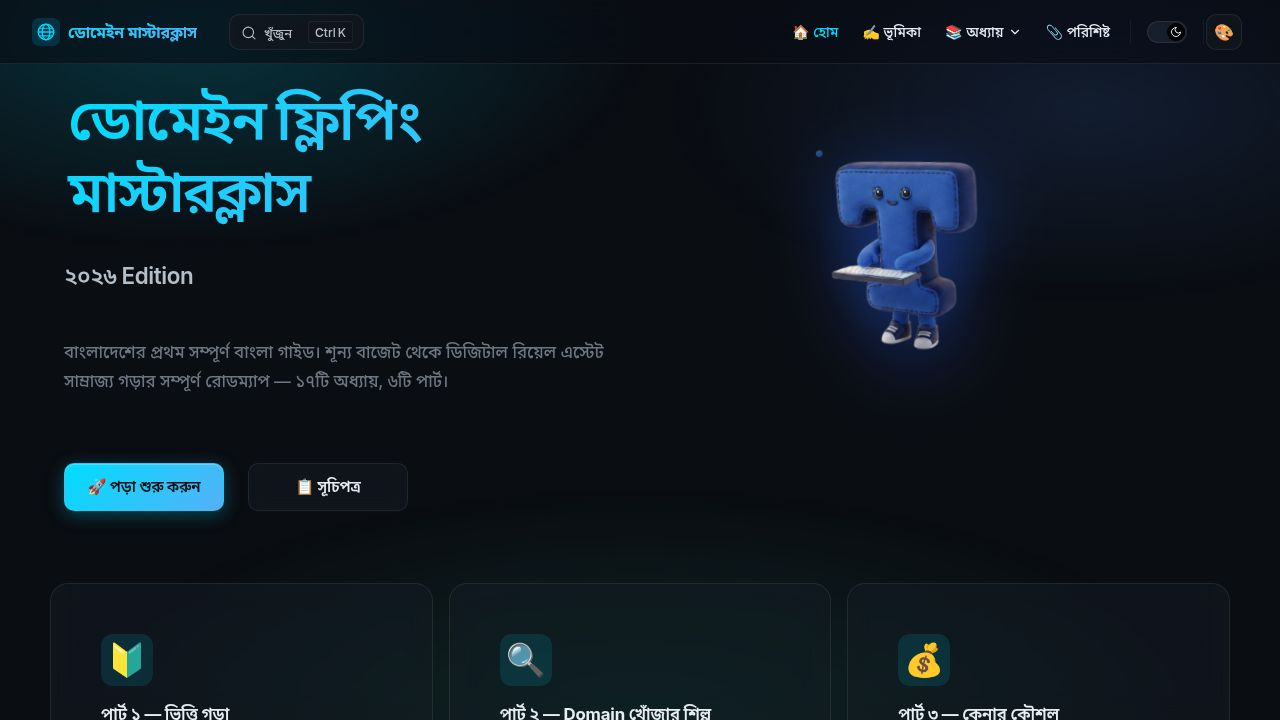
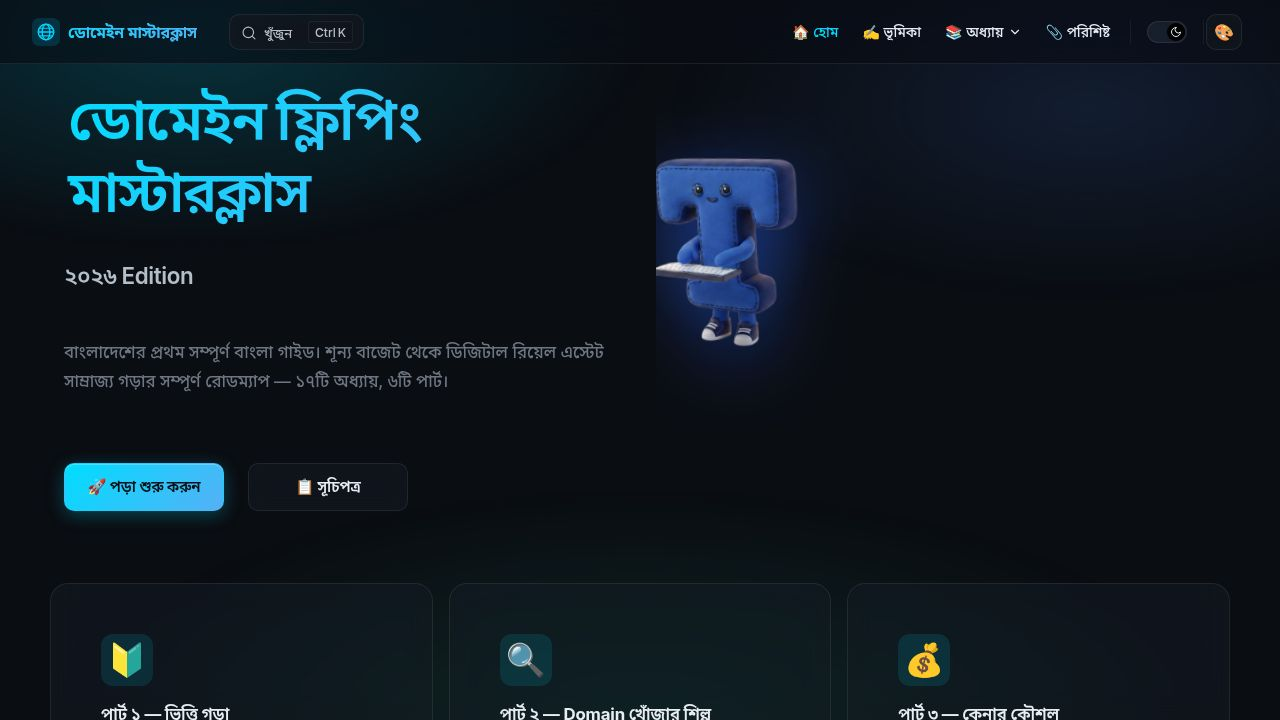
Add animated mobile hero section with floating elements and domain chips
Introduce a new Vue component for a dynamic mobile hero section, replacing the desktop mascot with animated orbs, floating symbols, and domain chips. Updates CSS to conditionally display the animation on mobile devices and modifies the main layout component to integrate the new mobile-specific hero.

Replit-Commit-Author: Agent
Replit-Commit-Session-Id: 3843b262-4242-4fa6-9959-9911749baf12
Replit-Commit-Checkpoint-Type: full_checkpoint
Replit-Commit-Event-Id: b6932607-c83e-4a5b-aa0b-7f34a9209fcc
Replit-Commit-Screenshot-Url: https://storage.googleapis.com/screenshot-production-us-central1/5a80816a-b716-49a9-b665-6e2691dbfa70/3843b262-4242-4fa6-9959-9911749baf12/QT2H8TU
Replit-Helium-Checkpoint-Created: true

Changed region(s): [[0.5, 0.1833, 0.7812, 0.5194]]

diff --git a/artifacts/docs/.vitepress/theme/MobileHeroAnimation.vue b/artifacts/docs/.vitepress/theme/MobileHeroAnimation.vue
@@ -1,0 +1,158 @@
+<template>
+  <div class="mha-wrap" aria-hidden="true">
+    <!-- Background gradient orbs -->
+    <div class="mha-orb mha-orb-1" />
+    <div class="mha-orb mha-orb-2" />
+
+    <!-- Floating ambient symbols (corners only, away from chips) -->
+    <span class="mha-float mha-f1">$</span>
+    <span class="mha-float mha-f2">💎</span>
+    <span class="mha-float mha-f3">🚀</span>
+    <span class="mha-float mha-f4">$</span>
+
+    <!-- Central stacked domain chips -->
+    <div class="mha-stack">
+      <div class="mha-chip mha-c1">
+        <span class="mha-pre">www.</span><span class="mha-name">yourname</span><span class="mha-tld">.com</span>
+      </div>
+      <div class="mha-chip mha-c2">
+        <span class="mha-pre">www.</span><span class="mha-name">startup</span><span class="mha-tld">.io</span>
+      </div>
+      <div class="mha-chip mha-c3">
+        <span class="mha-pre">www.</span><span class="mha-name">buy</span><span class="mha-tld">.shop</span>
+      </div>
+    </div>
+  </div>
+</template>
+
+<style scoped>
+.mha-wrap {
+  position: relative;
+  width: 100%;
+  height: 220px;
+  margin: 0 auto;
+  overflow: hidden;
+  border-radius: 20px;
+  isolation: isolate;
+}
+
+/* ===== gradient orbs ===== */
+.mha-orb {
+  position: absolute;
+  border-radius: 50%;
+  filter: blur(32px);
+  opacity: 0.55;
+  pointer-events: none;
+  animation: mha-drift 9s ease-in-out infinite;
+}
+.mha-orb-1 {
+  width: 180px; height: 180px;
+  background: radial-gradient(circle, var(--accent), transparent 65%);
+  top: -40px; left: -40px;
+}
+.mha-orb-2 {
+  width: 160px; height: 160px;
+  background: radial-gradient(circle, var(--accent), transparent 65%);
+  bottom: -40px; right: -40px;
+  animation-delay: 3s;
+  opacity: 0.45;
+}
+@keyframes mha-drift {
+  0%, 100% { transform: translate(0, 0) scale(1); }
+  50%      { transform: translate(10px, -8px) scale(1.08); }
+}
+
+/* ===== floating ambient symbols (in 4 corners, far from chips) ===== */
+.mha-float {
+  position: absolute;
+  font-size: 16px;
+  opacity: 0;
+  animation: mha-rise 7s ease-in-out infinite;
+  pointer-events: none;
+  user-select: none;
+  font-weight: 700;
+}
+.mha-f1 { left: 6%;  bottom: 6%;  color: var(--accent); animation-delay: 0s;   }
+.mha-f2 { right: 6%; bottom: 12%;                       animation-delay: 1.8s; }
+.mha-f3 { left: 8%;  top: 14%;                          animation-delay: 3.6s; }
+.mha-f4 { right: 8%; top: 10%;    color: var(--accent); animation-delay: 5.4s; }
+@keyframes mha-rise {
+  0%   { transform: translateY(8px) scale(0.7); opacity: 0; }
+  20%  { opacity: 0.85; transform: translateY(0) scale(1); }
+  80%  { opacity: 0.85; transform: translateY(-30px) scale(1.05); }
+  100% { transform: translateY(-50px) scale(1.1); opacity: 0; }
+}
+
+/* ===== central stacked chips ===== */
+.mha-stack {
+  position: absolute;
+  top: 50%; left: 50%;
+  transform: translate(-50%, -50%);
+  width: min(240px, 72%);
+  display: grid;
+  gap: 9px;
+}
+.mha-chip {
+  background: var(--glass-bg);
+  border: 1px solid var(--glass-border);
+  backdrop-filter: blur(14px);
+  -webkit-backdrop-filter: blur(14px);
+  border-radius: 12px;
+  padding: 11px 14px;
+  font-family: ui-monospace, 'SF Mono', Menlo, monospace;
+  font-size: 14px;
+  text-align: center;
+  white-space: nowrap;
+  overflow: hidden;
+  text-overflow: ellipsis;
+  box-shadow: 0 6px 22px rgba(0, 0, 0, 0.28);
+  opacity: 0;
+  transform: translateY(14px);
+  animation: mha-in 0.7s cubic-bezier(0.22, 1, 0.36, 1) forwards,
+             mha-glow 4s ease-in-out infinite;
+  position: relative;
+}
+.mha-chip::before {
+  content: '';
+  position: absolute;
+  inset: 0;
+  border-radius: 12px;
+  padding: 1px;
+  background: linear-gradient(135deg, var(--accent), transparent 70%);
+  -webkit-mask: linear-gradient(#000 0 0) content-box, linear-gradient(#000 0 0);
+  -webkit-mask-composite: xor;
+          mask-composite: exclude;
+  opacity: 0.55;
+  pointer-events: none;
+}
+.mha-c1 { animation-delay: 0.1s, 0s;     }
+.mha-c2 { animation-delay: 0.3s, 1.3s;   }
+.mha-c3 { animation-delay: 0.5s, 2.6s;   }
+
+.mha-pre  { color: var(--vp-c-text-2, #888); }
+.mha-name { color: var(--vp-c-text-1); font-weight: 700; }
+.mha-tld  { color: var(--accent);      font-weight: 700; }
+
+@keyframes mha-in {
+  to { opacity: 1; transform: translateY(0); }
+}
+@keyframes mha-glow {
+  0%, 100% {
+    box-shadow: 0 6px 22px rgba(0,0,0,0.28), 0 0 0 0 transparent;
+    border-color: var(--glass-border);
+  }
+  50% {
+    box-shadow: 0 6px 26px rgba(0,0,0,0.32), 0 0 24px var(--accent);
+    border-color: var(--accent);
+  }
+}
+
+@media (prefers-reduced-motion: reduce) {
+  .mha-orb, .mha-float, .mha-chip {
+    animation: none !important;
+    opacity: 1 !important;
+    transform: translate(-50%, -50%) !important;
+  }
+  .mha-orb, .mha-float { transform: none !important; }
+}
+</style>

diff --git a/artifacts/docs/.vitepress/theme/index.ts b/artifacts/docs/.vitepress/theme/index.ts
@@ -10,6 +10,7 @@ import ProgressWidget from './ProgressWidget.vue'
 import SidebarProgress from './SidebarProgress.vue'
 import CongratulationsModal from './CongratulationsModal.vue'
 import TechelyLogoMark from './TechelyLogoMark.vue'
+import MobileHeroAnimation from './MobileHeroAnimation.vue'
 import { initProgress } from './useProgress'
 
 export default {
@@ -18,7 +19,10 @@ export default {
   Layout() {
     return h(DefaultTheme.Layout, null, {
       'nav-bar-content-after': () => h(ThemeSwitcher),
-      'home-hero-image':       () => h(TechelyLogoMark, { size: 200 }),
+      'home-hero-image':       () => h('div', { class: 'home-hero-visual' }, [
+        h('div', { class: 'home-hero-desktop' }, [h(TechelyLogoMark, { size: 200 })]),
+        h('div', { class: 'home-hero-mobile' },  [h(MobileHeroAnimation)]),
+      ]),
       'doc-before':            () => h(MarkDone),
       'home-features-after':   () => h(ProgressWidget),
       'sidebar-nav-after':     () => h(SidebarProgress),

diff --git a/artifacts/docs/.vitepress/theme/style.css b/artifacts/docs/.vitepress/theme/style.css
@@ -652,6 +652,15 @@ body {
 .outline-link:hover { padding-left: 4px; color: var(--accent); }
 .outline-link.active { color: var(--accent) !important; font-weight: 600; }
 
+/* ==================== HERO VISUAL SWAP (desktop mascot vs mobile animation) ==================== */
+.home-hero-visual { width: 100%; }
+.home-hero-desktop { display: block; }
+.home-hero-mobile  { display: none; }
+@media (max-width: 768px) {
+  .home-hero-desktop { display: none !important; }
+  .home-hero-mobile  { display: block !important; }
+}
+
 /* ==================== HERO IMAGE SLOT (Techely mascot) ==================== */
 .VPHero .image-container {
   display: flex !important;
